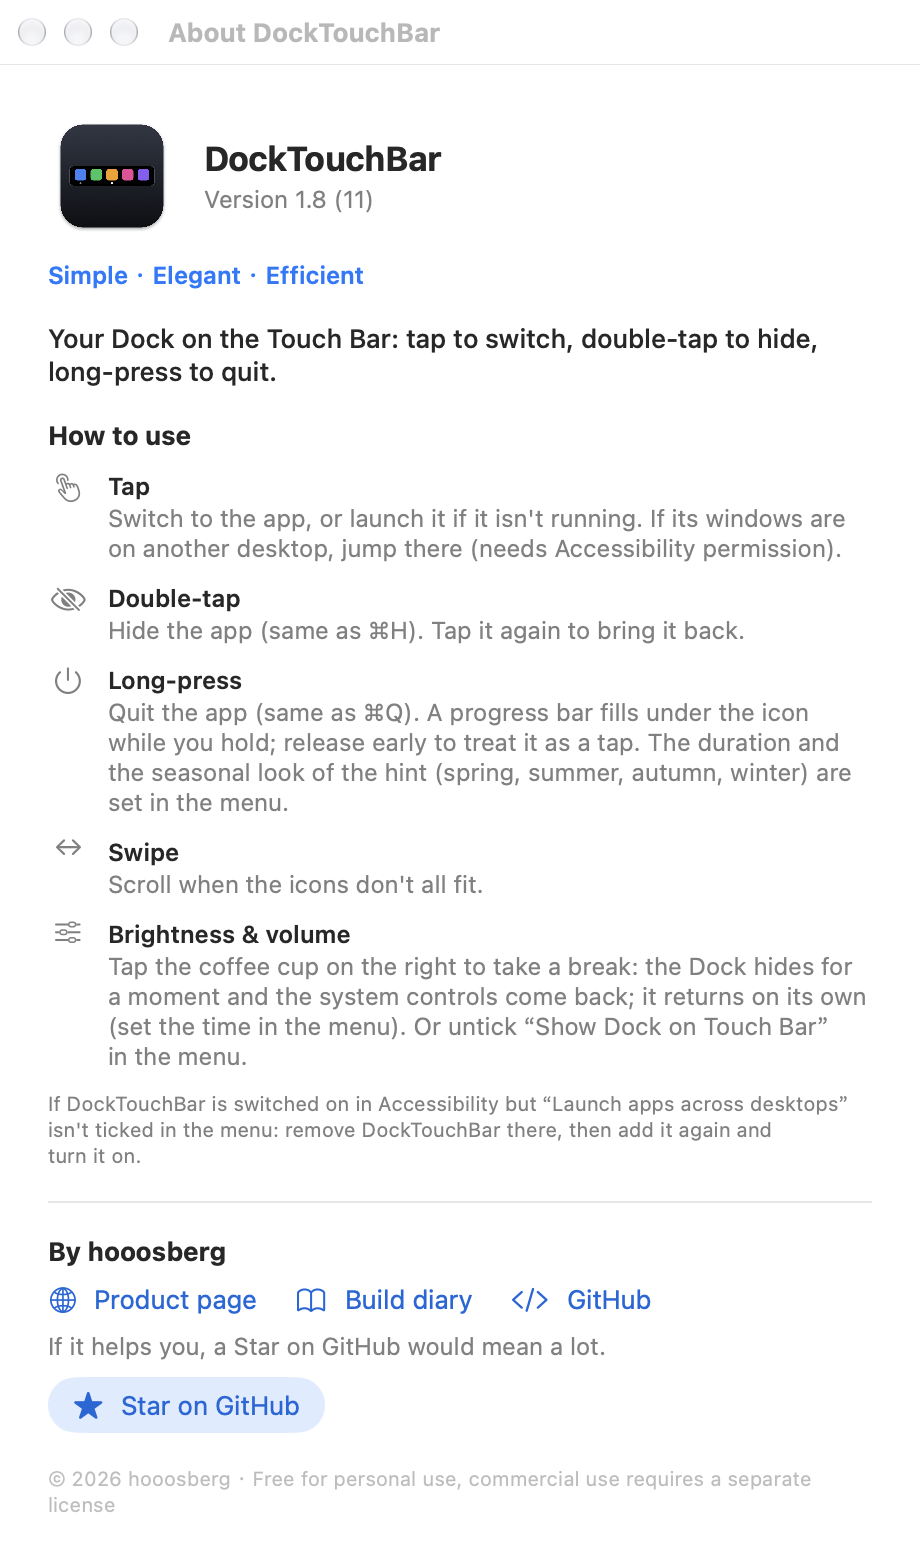
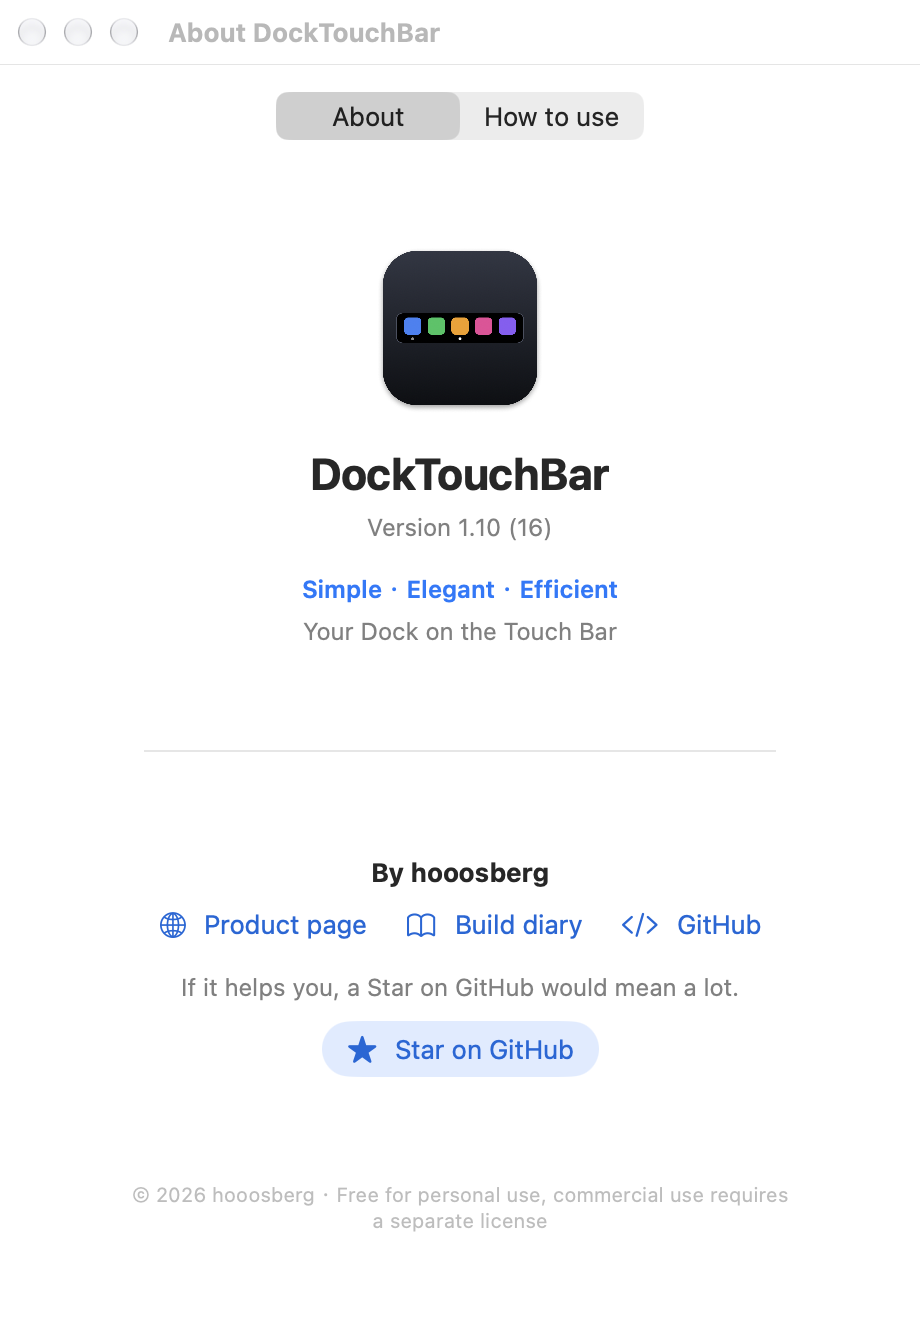
README: 1.9-1.10 features (center / maximize, finale, smarter long-press, permissions), fresh About screenshots, re-measured numbers

diff --git a/README.md b/README.md
@@ -27,7 +27,7 @@
 
 ![DockTouchBar on the Touch Bar](assets/touchbar.png)
 
-*A rendering of the Touch Bar, drawn by the app's own view code with stock macOS apps as samples. Order matches your Dock: Finder → pinned apps → divider → other running apps. A dot marks a running app; the brightest dot is the frontmost one. At the right end: the coffee cup (take a break) and the center-window button.*
+*A rendering of the Touch Bar, drawn by the app's own view code with stock macOS apps as samples. Order matches your Dock: Finder → pinned apps → divider → other running apps. A dot marks a running app; the brightest dot is the frontmost one. At the right end: the coffee cup (take a break) and the center / maximize button.*
 
 **If DockTouchBar is useful to you, a ⭐ Star on GitHub is the best way to say thanks.**
 
@@ -39,7 +39,7 @@ Pock, PockV2 and friends can put the Dock on the Touch Bar, but they do a lot mo
 
 - One job: your Dock on the Touch Bar. No widgets, no plugins.
 - A handful of switches in the menu bar, nothing else to configure.
-- About 3,400 lines of Swift in 13 files (roughly a tenth of it is pixel-art data), no third-party dependencies. The whole app is 1.5 MB.
+- About 4,200 lines of Swift in 15 files (a good part of it is pixel-art data), no third-party dependencies. The whole app is 1.7 MB.
 
 **Elegant**
 
@@ -50,14 +50,14 @@ Pock, PockV2 and friends can put the Dock on the Touch Bar, but they do a lot mo
 
 **Efficient**
 
-- Event-driven, no polling. Measured on an M1 MacBook Pro with the Dock showing and idle: **0.0% CPU**, **0 idle wakeups**, about **29 MB** of memory.\*
+- Event-driven, no polling. Measured on an M1 MacBook Pro with the Dock showing and idle: **0.0% CPU**, **0 idle wakeups**, about **32 MB** of memory.\*
 - Adapts to your Mac instead of using fixed delays: desktop switches wait for the system's own "finished" signal and check the result, so it stays correct whether animations are slow, off, or the machine is busy.
 - When apps start or quit, only what changed is updated and your scroll position is kept. Icons are rasterized once and cached.
 - Self-healing: re-attaches after sleep, screen unlock and Control Strip restarts, so you never have to relaunch it.
 - Fails safe: private APIs are resolved at runtime. If macOS removes one, that feature switches itself off instead of crashing.
 - Private: no network access, no analytics, no accounts. It only stores your preferences.
 
-<sub>\* Release build. CPU from five `top` samples 2 s apart (all 0.0%); wakeups from the kernel's per-process counters read 20 s apart, four times (0 idle wakeups every time; 0–7 interrupt wakeups, which come from system events, and no measurable CPU time in between); memory is the physical footprint from `footprint` (29 MB). The steam above the coffee cup is drawn by the system's render process, not by the app.</sub>
+<sub>\* Release build. CPU from five `top` samples 2 s apart (all 0.0%); wakeups from the kernel's per-process counters read 20 s apart, three times on 1.10 (0 idle wakeups and 0 interrupt wakeups every time; an earlier run on 1.8 saw 0–7 interrupt wakeups, from system events); memory is the physical footprint from `footprint` (32 MB). The steam above the coffee cup is drawn by the system's render process, not by the app.</sub>
 
 ## Features
 
@@ -65,10 +65,10 @@ Pock, PockV2 and friends can put the Dock on the Touch Bar, but they do a lot mo
 |---|---|
 | **Tap** an icon | Switch to the app, or launch it. If its windows are on another desktop (Space), jump to that desktop |
 | **Double-tap** | Hide the app (same as ⌘H). Tap again to bring it back |
-| **Long-press** | Quit the app (same as ⌘Q). A progress bar fills under the icon while you hold, and a shimmering "Closing …" countdown appears at the right edge of the Touch Bar over a pixel-art season (spring, summer, autumn or winter, your pick in the menu); release early and it counts as a tap. Finder can't be quit |
+| **Long-press** | Close the app, and always tell you what happened. A progress bar fills under the icon while you hold, and a "Closing …" countdown appears at the right edge over a pixel-art season (your pick in the menu); release early and it counts as a tap. If the app is in front with two or more windows it closes just the current window, otherwise it quits (same as ⌘Q). Finder can't be quit, so it is hidden (or its current window is closed when it is in front). If the app can't close because it is waiting for you (an "unsaved changes" sheet) or does not close, the Touch Bar switches to it, across desktops, and says so |
 | **Swipe** | Scroll when the icons don't all fit |
 | **Coffee cup** (right end, with animated steam) | Take a break: hide the Dock for a moment and hand the Touch Bar back to the system (brightness, volume). It returns on its own after 10–60 s |
-| **Center button** (far right) | Center the frontmost app's window on the screen, at the size you pick in the menu. Needs Accessibility permission |
+| **Center / maximize button** (far right) | Center the frontmost app's window; tap again to maximize it (fills the usable area, not native full screen), and again to center it. If you moved the window yourself or switched apps, it centers first, and the icon follows the window's current state. Needs Accessibility permission |
 
 Menu bar settings:
 
@@ -76,11 +76,11 @@ Menu bar settings:
 - Hide for a moment after tapping the coffee cup: 10 / 20 / 30 / 60 s
 - Only show running apps (off by default: pinned apps are shown too)
 
-- Show the center-window button, and the size of the centered window (60–100% of the screen height; width same as height, or 50–100% of the screen width)
+- Show the center / maximize button, and the size of the centered window (60–100% of the screen height; width same as height, or 50–100% of the screen width)
 
 - Permissions — shows whether Accessibility is on, what it is used for (jumping to another desktop, center / maximize, closing just the current window, spotting a confirmation dialog) and takes you to System Settings to turn it on; nothing else needs a permission
 - Double-tap an icon: hide the app
-- Long-press an icon: quit the app (Off / 1 s / 2 s / 3 s / 5 s)
+- Long-press an icon: close the app (Off / 1 s / 2 s / 3 s / 5 s)
 - Long-press style: Spring / Summer / Autumn / Winter (the Touch Bar plays a short preview when you pick one)
 
 - Language: Follow System / 简体中文 / English
@@ -91,9 +91,9 @@ Opening the app again from Applications while it is running pops up the menu.
 
 ![Long-press to quit, in four seasons](assets/seasons.png)
 
-*Long-press: the icon dims and the countdown appears at the right edge over a little pixel-art scene: spring, summer, autumn, winter (top to bottom). A small character (a dog, a sailboat, a fox, a sleigh) runs along the segmented progress bar; when it gets to the end, the app quits. Let go early and it counts as a tap. These are real captures of the running app.*
+*Long-press: the icon dims and the countdown appears at the right edge over a little pixel-art scene: spring, summer, autumn, winter (top to bottom). A small character (a dog, a sailboat, a fox, a sleigh) runs along the segmented progress bar; when it gets to the end, the app closes and a gust of petals, bubbles, leaves or snow sweeps over the scene and thins out. Let go early and it counts as a tap. These are real captures of the running app.*
 
-<img src="assets/about-en.png" alt="About window" width="360">
+<img src="assets/about-en.png" alt="About window" width="300"> <img src="assets/usage-en.png" alt="How to use page" width="300">
 
 ## On a real MacBook Pro
 
@@ -162,7 +162,7 @@ Without a signing certificate the build falls back to ad-hoc signing. That works
 ## Project layout
 
 ```
-Sources/DockTouchBar/   App source (13 files)
+Sources/DockTouchBar/   App source (15 files)
 Resources/              Info.plist, app icon
 scripts/                build.sh, install.sh, make-dmg.sh, make-icon.sh
 tools/                  Diagnostics: private-API check, Spaces/windows inspector, switch diagnostic, rapid-click stress test, offscreen preview, and render-seasons.sh (the README screenshots)
